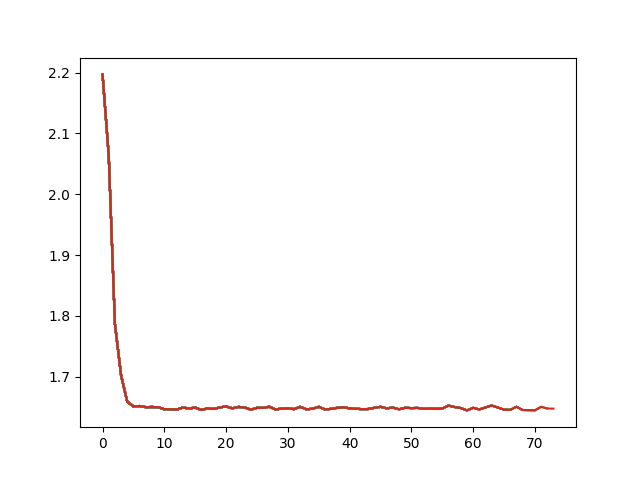
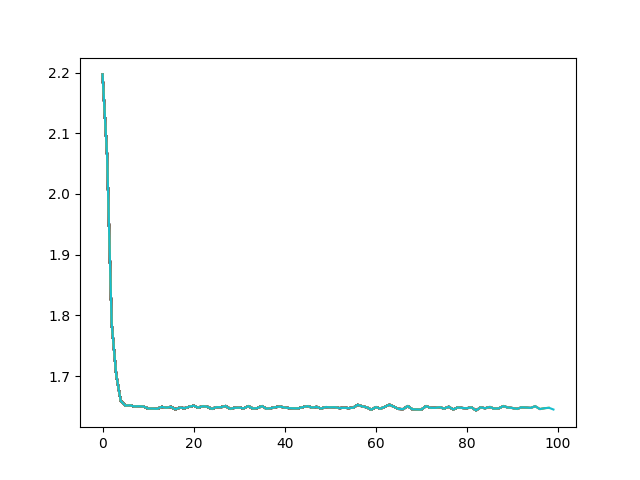
added testing

diff --git a/main.py b/main.py
@@ -1,3 +1,4 @@
+from cProfile import label
 from PIL import Image
 import torch
 import numpy as np
@@ -24,7 +25,7 @@ model.to(device)
 
 epochs = 100
 
-continue_training = False
+continue_training = True
 
 if continue_training:
     checkpoint = torch.load("cnn.pth")
@@ -73,5 +74,18 @@ def train(epochs):
         writer.add_scalar("train_loss", torch.tensor(epoch_train_loss), epoch)
         plt.savefig("loss.png")
 
+def test():
+    model.eval()
+    losses = []
+    accuracies = []
+    with torch.no_grad():
+        print("Testing")
+        for batch, labels in tqdm(test_loader):
+            out = model(batch)
+            losses.append(criterion(out, labels))
+            accuracies.append(accuracy_score(torch.max(out.data, 1)[1], labels))
+        print(np.mean(losses))
+        print(np.mean(accuracies))
 if __name__ == '__main__':
-    train(epochs)
+    train(5)
+    test()

diff --git a/data.py b/data.py
@@ -48,7 +48,7 @@ train_split = 0.8
 
 indices = torch.randperm(len(lettersDataset)).tolist()
 train_dataset = torch.utils.data.Subset(lettersDataset, indices[:int(len(lettersDataset) * 0.9)])
-test_dataset = torch.utils.data.Subset(lettersDataset, indices[:int(len(lettersDataset) * 0.9):])
+test_dataset = torch.utils.data.Subset(lettersDataset, indices[int(len(lettersDataset) * 0.9):])
 
 
 train_loader = DataLoader(
